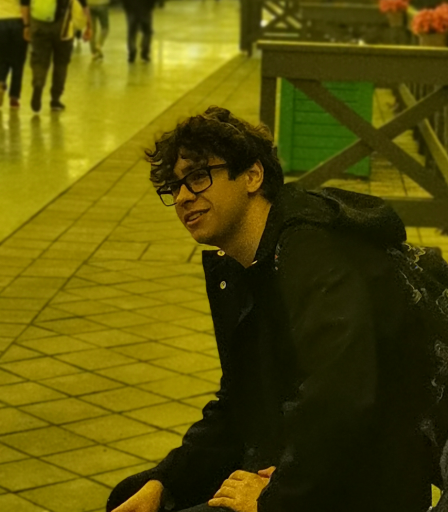
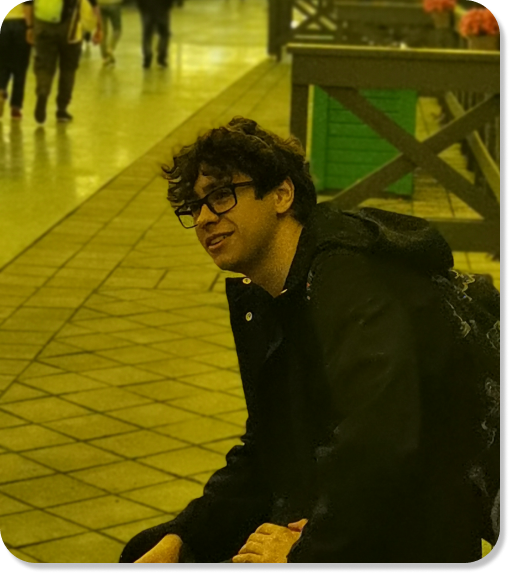
feat: style hero section

diff --git a/index.html b/index.html
@@ -13,31 +13,32 @@
 </head>
 <body>
     <header class="header">
-        <nav class="menu">
-            <ul>
-                <li class="menu-item"><a href="">home</a></li>
-                <li class="menu-item"><a href="">about</a></li>
-                <li class="menu-item"><a href="">skills</a></li>
-                <li class="menu-item"><a href="">language</a></li>
-                <li class="menu-item"><a href="">projects</a></li>
-                <li class="menu-item"><a href="">code</a></li>
-                <li class="menu-item"><a href="">contacts</a></li>
-            </ul>
-            <button class="burger">brg</button>
-        </nav>
+        <div class="container">
+            <nav class="menu">
+                <ul>
+                    <li class="menu-item"><a href="">about</a></li>
+                    <li class="menu-item"><a href="">skills</a></li>
+                    <li class="menu-item"><a href="">language</a></li>
+                    <li class="menu-item"><a href="">projects</a></li>
+                    <li class="menu-item"><a href="">code</a></li>
+                    <li class="menu-item"><a href="">contacts</a></li>
+                </ul>
+                <button class="burger">brg</button>
+            </nav>
+        </div>
     </header>
     <main>
         <div class="container">
             <section class="hero">
-                <div class="hero-img">
-                    <img src="" alt="Fedorov Ivan">
-                </div>
                 <div class="hero-content">
+                    <div class="hero-img">
+                        <img src="img/Fedorov_Ivan.png" alt="Fedorov Ivan">
+                    </div>
                     <div class="hero-content-box">
                         <span class="hero-greetings">
-                            Hello, my name is <span class="name">Fedorov Ivan</span>
+                            Hello, my name is <span id="name">Fedorov Ivan</span>
+                            <span id="job">Front-End Developer</span>
                         </span>
-                        <span class="job">Front-End Developer</span>
                     </div>
                 </div>
             </section>

diff --git a/css/style.css b/css/style.css
@@ -1,18 +1,37 @@
-body{
+* {
+    box-sizing: border-box;
+}
+
+body {
     font-family: 'Montserrat', sans-serif;
+    font-weight: 400;
     background-color: #595972;
     color: white;
 }
 
-.container {
+img {
+    max-width: 100%;
+}
 
+header {
+    padding-bottom: 64px;
+}
+
+.container {
+    max-width: 1010px;
+    padding: 0 15px;
+    margin: 0 auto;
 }
 
 .menu {
     list-style: none;
     margin: 40px 0 5px;
     padding: 25px 0 5px;
-    text-align: right;
+    text-align: center;
+}
+
+.burger {
+    display: none;
 }
 
 .menu-item {
@@ -20,6 +39,9 @@ body{
 }
 
 .menu-item a {
+    font-weight: 400;
+    font-size: 24px;
+    line-height: 29px;
     text-decoration: none;
     color: #fff;
     position: relative;
@@ -38,9 +60,9 @@ body{
     position: absolute;
     height: 2px;
     top: auto;
-    right: 50%;
+    right: 49.5%;
     bottom: -5px;
-    left: 50%;
+    left: 50.5%;
     background: #E8D700;
     transition: .8s;
 }
@@ -59,4 +81,40 @@ body{
     padding: 25px 0 20px; 
     margin: 0 30px;
 }
+}
+
+.hero-content {
+    height: 570px;
+}
+
+.hero-img {
+    margin: 0 1em 1em 0;
+    float: left;
+}
+
+.hero-content-box{
+    display: flex;
+    position: relative;
+    top: 150px;
+    margin-bottom: 100px;
+    margin-left: auto;
+    background: #353548;
+    box-shadow: 0px 4px 4px rgba(0, 0, 0, 0.25);
+    border-radius: 18px;
+}
+
+.hero-greetings { 
+    padding: 18px 23px;
+    font-weight: 400;
+    font-size: 48px;
+    line-height: 59px;
+}
+
+#name {
+    font-weight: 600;
+}
+
+#job {
+    font-weight: 200;
+    font-size: 36px;
 }
